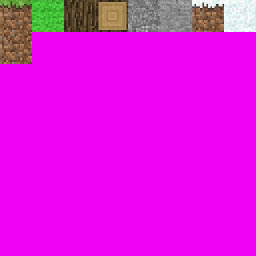
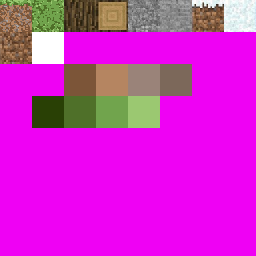
fixed textures and added DoF

Changed region(s): [[0.125, 0.25, 0.75, 0.5], [0.0, 0.0, 0.25, 0.25]]

diff --git a/SkyScape.Core/SkyScapeGame.cs b/SkyScape.Core/SkyScapeGame.cs
@@ -40,11 +40,12 @@ namespace SkyScape.Core
         private WorldTraverserGenerator _traverser;
         private WorldGenerator _generator;
 
-        private Effect _depthEffect;
+        private Effect _depthEffect, _depthOfField;
         private ScreenSpaceAmbientOcclusion _ssao;
         private RenderTarget2D _mainTarget;
         private RenderTarget2D _depthTarget;
         private RenderTarget2D _ssaoTarget;
+        private RenderTarget2D _dofTarget;
         private bool _ambientOcclusion = false;
         private RasterizerState _rasterizerState;
 
@@ -83,9 +84,11 @@ namespace SkyScape.Core
             _effect = new StandardEffect(_content.Load<Effect>(@"Shaders/Standard"));
             _spriteSheet = _content.Load<Texture2D>(@"Gfx/sheet");
             _effect.Texture = _spriteSheet;
+            _depthOfField = _content.Load<Effect>(@"Shaders/DepthOfField");
 
             _mainTarget = new RenderTarget2D(_graphics, 1280, 720, false, SurfaceFormat.Color, DepthFormat.Depth24Stencil8);
             _ssaoTarget = new RenderTarget2D(_graphics, 1280, 720, false, SurfaceFormat.Color, DepthFormat.Depth24Stencil8);
+            _dofTarget = new RenderTarget2D(_graphics, 1280, 720, false, SurfaceFormat.Color, DepthFormat.Depth24Stencil8);
             _depthTarget = new RenderTarget2D(_graphics,
                                                 1280,
                                                 720,
@@ -358,13 +361,26 @@ namespace SkyScape.Core
                 _spriteBatch.Draw(_mainTarget, new Rectangle(0, 0, 1280, 720), Color.White);
                 _spriteBatch.End();
 
-                // Bake SSAO map with main target
-                _graphics.SetRenderTarget(null);
+                // Bake SSAO map with main target to dof target
+                _graphics.SetRenderTarget(_dofTarget);
                 _graphics.Clear(Color.CornflowerBlue);
                 _ssao.CurrentTechnique = _ssao.Techniques["SSAO_Apply"];
                 _ssao.DepthTexture = _ssaoTarget;
                 _spriteBatch.Begin(SpriteSortMode.Deferred, null, null, null, null, _ssao);
                 _spriteBatch.Draw(_mainTarget, new Rectangle(0, 0, 1280, 720), Color.White);
+                _spriteBatch.End();
+
+                // Render to BB with dof
+                _graphics.SetRenderTarget(null);
+                _graphics.Clear(Color.CornflowerBlue);
+                _depthOfField.Parameters["depthTex"].SetValue(_depthTarget);
+                _depthOfField.Parameters["_Blur"].SetValue(8f);
+                _depthOfField.Parameters["_SampleDistance"].SetValue(0.0005f);
+                _depthOfField.Parameters["_Distance"].SetValue(2f);
+                _depthOfField.Parameters["_Range"].SetValue(64f);
+                _depthOfField.Parameters["_Far"].SetValue(_cam.FarClip);
+                _spriteBatch.Begin(SpriteSortMode.Deferred, null, null, null, null, _depthOfField);
+                _spriteBatch.Draw(_dofTarget, new Rectangle(0, 0, 1280, 720), Color.White);
                 _spriteBatch.End();
             }
             else
